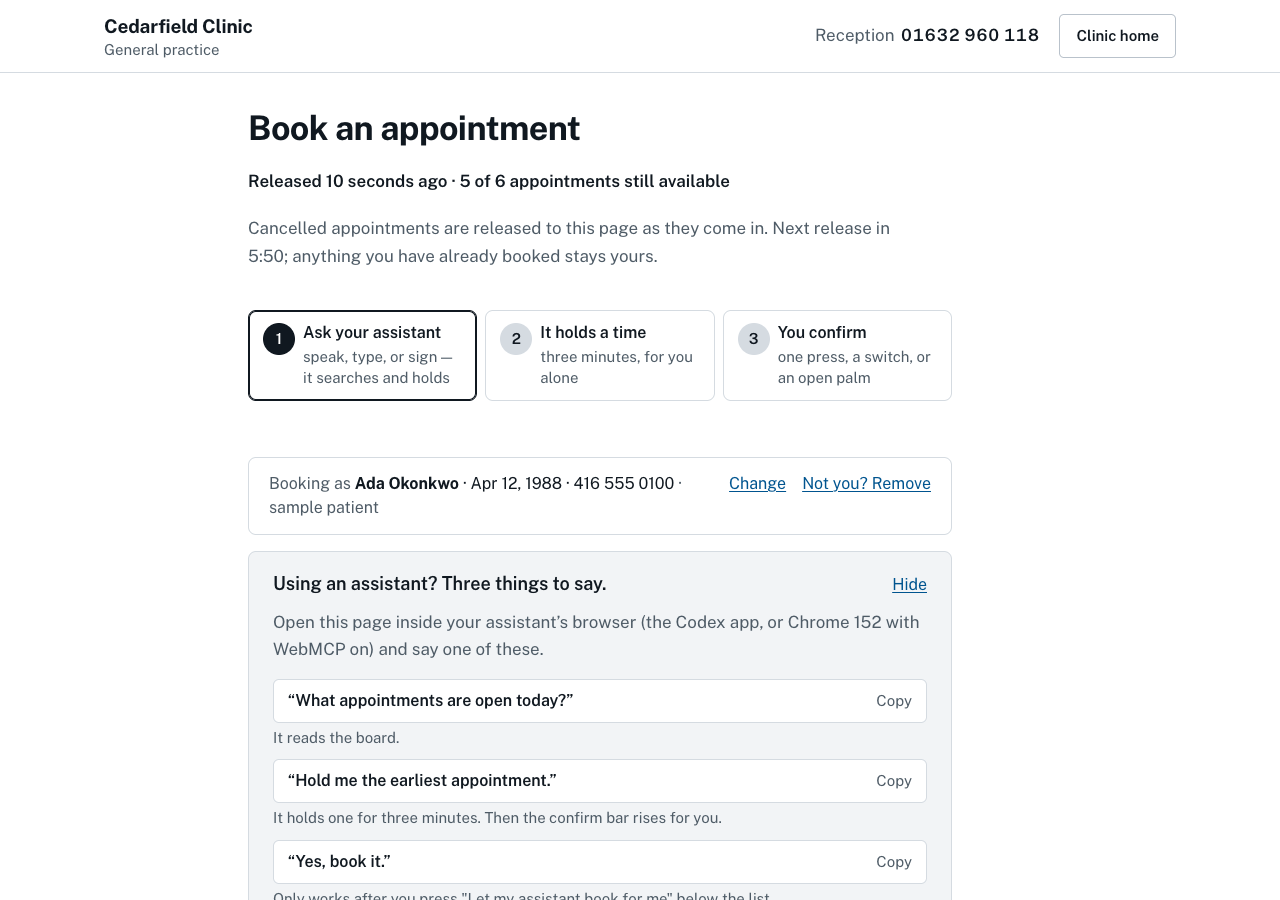
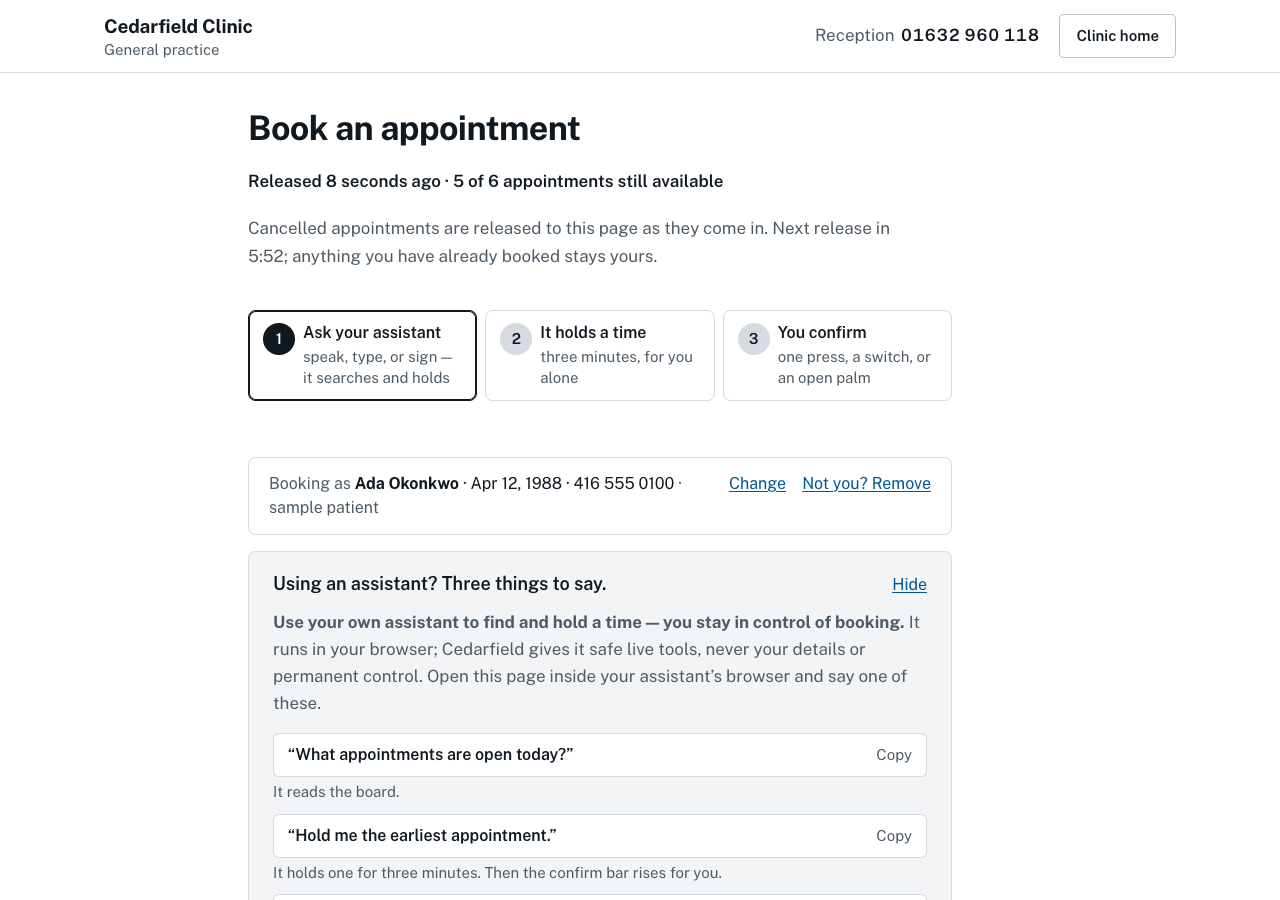
feat(clinic): the camera comes back; keyboard summons signs; tool names on the strip and cursor; take it back
Claude-Session: https://claude.ai/code/session_01RJtGvkhmwd2qdLot5U3zBz

diff --git a/apps/web/src/components/drop/GestureConfirm.tsx b/apps/web/src/components/drop/GestureConfirm.tsx
@@ -110,7 +110,7 @@ const INFER_EVERY_MS = 80;
 /** The sign channel's bar: held for eight consecutive readings at ≥ 0.85, then a 2 s gap. */
 export const SIGN_MIN_SCORE = 0.85;
 export const SIGN_STEADY_READINGS = 8;
-export const SIGN_REFRACTORY_MS = 2000;
+export const SIGN_REFRACTORY_MS = 1200;
 
 /** The page-wide "who has the camera" channel: an instance that starts announces itself. */
 const cameraBus: EventTarget = typeof window === 'undefined' ? new EventTarget() : ((window as unknown as { __cedarfieldCameraBus?: EventTarget }).__cedarfieldCameraBus ??= new EventTarget());
@@ -182,7 +182,11 @@ export function GestureConfirm({
   configRef.current = { dwellMs, graceMs: DEFAULT_GRACE_MS, minScore: DEFAULT_MIN_SCORE };
 
   // ---- teardown: one function, called on disable, on failure and on unmount ----
+  const yieldingRef = useRef(false);
   const teardown = useCallback(() => {
+    // Letting go of the camera (a dock closing, a Stop): tell the others, so one paused by this
+    // instance's claim can resume. Not when yielding to a claim — the claimant owns it now.
+    if (runningRef.current && !yieldingRef.current) cameraBus.dispatchEvent(new CustomEvent('release', { detail: instanceId.current }));
     if (rafRef.current !== null && typeof cancelAnimationFrame === 'function') cancelAnimationFrame(rafRef.current);
     rafRef.current = null;
     streamRef.current?.getTracks().forEach((track) => track.stop());
@@ -380,20 +384,46 @@ export function GestureConfirm({
   }, [teardown, forms.does, forms.keyboard]);
 
   // ---- one camera owner: yield to whichever instance the person started last ----
+  const pausedByClaim = useRef(false);
   useEffect(() => {
     const onClaim = (e: Event) => {
       const who = (e as CustomEvent<string>).detail;
       if (who === instanceId.current || !runningRef.current) return;
+      yieldingRef.current = true;
       teardown();
+      yieldingRef.current = false;
       setRunning(false);
       setEnabled(false);
       setPhase(null);
       setFailure(null);
-      setLive('Camera moved to the control you just enabled. Enable it here again if you need it.');
+      pausedByClaim.current = true;
+      setLive('Camera moved to the confirm bar for a moment — it comes back here by itself when that is done.');
+    };
+    // The other camera let go (its dock closed, or the person stopped it): if this one was paused
+    // by that claim, it resumes on its own — a hand user must never have to re-enable the switch
+    // board after every palm (Arav's run-through, 2026-09-03).
+    const onRelease = (e: Event) => {
+      const who = (e as CustomEvent<string>).detail;
+      if (who === instanceId.current || !pausedByClaim.current || runningRef.current) return;
+      pausedByClaim.current = false;
+      void start();
+    };
+    // Something on the page wants hand shapes (the scanning keyboard opened): the sign camera
+    // starts if a camera has been used this visit and it is not running.
+    const onWant = () => {
+      if (verb !== 'sign' || runningRef.current) return;
+      const used = (window as unknown as { __cedarfieldCameraUsed?: boolean }).__cedarfieldCameraUsed === true;
+      if (used) void start();
     };
     cameraBus.addEventListener('claim', onClaim);
-    return () => cameraBus.removeEventListener('claim', onClaim);
-  }, [teardown]);
+    cameraBus.addEventListener('release', onRelease);
+    cameraBus.addEventListener('want-signs', onWant);
+    return () => {
+      cameraBus.removeEventListener('claim', onClaim);
+      cameraBus.removeEventListener('release', onRelease);
+      cameraBus.removeEventListener('want-signs', onWant);
+    };
+  }, [teardown, start, verb]);
 
   // ---- mount: read the prefs; reopen the lens only where a grant already stands ----
   const startedOnce = useRef(false);

diff --git a/apps/web/src/components/clinic/ClinicBooking.tsx b/apps/web/src/components/clinic/ClinicBooking.tsx
@@ -571,11 +571,11 @@ export function ClinicBooking({ build }: ClinicBookingProps = {}) {
       const last = lastPointerRect.current;
       const from = last ? { x: last.left - r.left, y: last.top - r.top } : { x: -r.left - 48, y: -r.top - 48 };
       lastPointerRect.current = r;
-      setPointer({ label: `your assistant · ${record.summary}`, el, from, height: el.offsetHeight, at: Date.now() });
+      setPointer({ label: `your assistant · ${record.summary}`, tool: record.name, el, from, height: el.offsetHeight, at: Date.now() });
     }, 250);
   }, []);
   /** The assistant's pointer: where the last call landed, in document coordinates. */
-  const [pointer, setPointer] = useState<{ label: string; el: HTMLElement; from: { x: number; y: number }; height: number; at: number } | null>(null);
+  const [pointer, setPointer] = useState<{ label: string; tool: string; el: HTMLElement; from: { x: number; y: number }; height: number; at: number } | null>(null);
   /** Where the cursor last landed (viewport rect at that moment), so the next travel starts there. */
   const lastPointerRect = useRef<DOMRect | null>(null);
   const [pointerGone, setPointerGone] = useState(false);
@@ -787,7 +787,9 @@ export function ClinicBooking({ build }: ClinicBookingProps = {}) {
                   <path d="M4 2 L4 19 L8.6 14.8 L11.6 21.5 L14.4 20.3 L11.5 13.7 L18 13.5 Z" fill="#18181b" stroke="#fff" strokeWidth="1.5" strokeLinejoin="round" />
                 </svg>
                 <span className="cl-cursor__ring" />
-                <span className="cl-pointer">{pointer.label}</span>
+                <span className="cl-pointer">
+                  {pointer.label} <code className="cl-pointer__tool">{pointer.tool}</code>
+                </span>
               </span>
             </span>,
             pointer.el,
@@ -813,7 +815,10 @@ export function ClinicBooking({ build }: ClinicBookingProps = {}) {
         ) : lastCall !== null ? (
           <div className="cl-now" role="status" data-clinic-now={lastCall.name} data-clinic-now-ok={lastCall.ok ? 'true' : 'false'}>
             <span className="cl-now__who">Your assistant{lastCall.ok ? '' : ' was refused'}:</span>{' '}
-            <span className="cl-now__what">{lastCall.summary}</span>
+            <span className="cl-now__what">{lastCall.summary}</span>{' '}
+            <code className="cl-now__tool" data-clinic-now-tool>
+              {lastCall.name}
+            </code>
           </div>
         ) : null}
 

diff --git a/apps/web/src/lib/drop/request-queue.ts b/apps/web/src/lib/drop/request-queue.ts
@@ -62,6 +62,10 @@ export interface RequestQueue {
   ask(question: string, choices: readonly Choice[], timeoutMs: number, signal?: AbortSignal): Promise<AskResult>;
   /** The open question, if any — the panel renders it. */
   question(): Question | null;
+  /** Still waiting for an agent to take it? (by the request's `at`). */
+  isPending(at: number): boolean;
+  /** The person takes a request back before any agent has taken it. False if it was already taken. */
+  withdraw(at: number): boolean;
   /** The person picked a choice on the card itself (button, key, switch). False if nothing was open. */
   answer(index: number): boolean;
 }
@@ -180,6 +184,16 @@ export function createRequestQueue(): RequestQueue {
       });
     },
     question: () => open?.q ?? null,
+    isPending: (at) => pending.some((r) => r.at === at),
+    withdraw(at) {
+      const i = pending.findIndex((r) => r.at === at);
+      if (i < 0) return false;
+      pending.splice(i, 1);
+      const h = history.findIndex((r) => r.at === at);
+      if (h >= 0) history.splice(h, 1);
+      taken();
+      return true;
+    },
     answer(index) {
       if (open === null || index < 0 || index >= open.q.choices.length) return false;
       const choice = open.q.choices[index]!;

diff --git a/apps/web/src/components/clinic/ListenPanel.tsx b/apps/web/src/components/clinic/ListenPanel.tsx
@@ -433,8 +433,13 @@ export function ListenPanel({ queue, gesture, onActive, onMicChange, disabled = 
 
       <ol className="cl-listen__log" aria-label="What the page heard" data-clinic-listen-log={history.length}>
         {history.slice(0, 4).map((r) => (
-          <li key={`${r.at}-${r.text}`} data-clinic-heard={r.via}>
+          <li key={`${r.at}-${r.text}`} data-clinic-heard={r.via} data-clinic-heard-pending={queue.isPending(r.at) ? 'true' : 'false'}>
             <span className="cl-listen__via">{r.via === 'voice' ? 'Heard' : r.via === 'sign' ? 'Signed' : 'Typed'}</span> “{r.text}”
+            {queue.isPending(r.at) ? (
+              <button type="button" className="cl-link cl-listen__takeback" data-clinic-heard-takeback onClick={() => queue.withdraw(r.at)}>
+                Take it back
+              </button>
+            ) : null}
           </li>
         ))}
         {last === null ? <li className="cl-listen__empty">Nothing yet.</li> : null}

diff --git a/apps/web/src/lib/drop/request-queue.test.ts b/apps/web/src/lib/drop/request-queue.test.ts
@@ -118,3 +118,17 @@ test('ask: an answer given a few seconds BEFORE the question opened is taken as 
   assert.deepEqual(await p, { answer: null, stopped: false });
   assert.equal(q2.pending(), 1);
 });
+
+test('withdraw: a request not yet taken can be taken back; one already handed over cannot', async () => {
+  const q = createRequestQueue();
+  const a = q.push('hold me the earliest', 'typed')!;
+  assert.equal(q.isPending(a.at), true);
+  assert.equal(q.withdraw(a.at), true);
+  assert.equal(q.pending(), 0);
+  assert.equal(q.history().length, 0, 'gone from the log too');
+  const b = q.push('show me another', 'voice')!;
+  const taken = await q.wait(10);
+  assert.equal(taken?.at, b.at);
+  assert.equal(q.isPending(b.at), false);
+  assert.equal(q.withdraw(b.at), false);
+});

diff --git a/apps/web/src/components/clinic/ScanKeyboard.tsx b/apps/web/src/components/clinic/ScanKeyboard.tsx
@@ -64,9 +64,12 @@ export function ScanKeyboard({ fieldLabel, value, onChange, onDone, stepMs = 900
     return () => window.removeEventListener('keydown', onKey);
   }, [act]);
 
-  // The camera's shapes, while this keyboard is open.
+  // The camera's shapes, while this keyboard is open. Opening the keyboard asks the page for the
+  // sign camera (it starts by itself if a camera was used this visit).
   useEffect(() => {
     if (!registerSignSink) return;
+    const bus = (window as unknown as { __cedarfieldCameraBus?: EventTarget }).__cedarfieldCameraBus;
+    bus?.dispatchEvent(new CustomEvent('want-signs'));
     registerSignSink((category) => {
       const action = switchAction(category);
       if (action) act(action);

diff --git a/apps/web/src/components/clinic/clinic.css b/apps/web/src/components/clinic/clinic.css
@@ -2615,3 +2615,23 @@ html:has(.cl-dock) {
     transform: none;
   }
 }
+
+.cl-now__tool,
+.cl-pointer__tool {
+  font-family: var(--font-mono, ui-monospace, monospace);
+  font-size: 0.75rem;
+  padding: 0.1rem 0.4rem;
+  border-radius: 0.25rem;
+  background: rgba(255, 255, 255, 0.18);
+}
+
+.cl-now__tool {
+  background: rgba(24, 24, 27, 0.08);
+  color: var(--clinic-ink);
+  margin-left: 0.25rem;
+}
+
+.cl-listen__takeback {
+  margin-left: 0.5rem;
+  font-size: var(--clinic-small);
+}

diff --git a/docs/DROP-STATUS.md b/docs/DROP-STATUS.md
@@ -25,6 +25,7 @@ This file is the single source of truth for what is green, what is blocking, and
 | **The phrase board (2026-09-03 ~02:45 PT, Arav: "what about the AAC keyboard")** | What most AAC boards are: ready sentences, one press each. Seven defaults in the "Say it to the page" panel (hold me the earliest appointment · show me afternoon times · show me another time · say that more simply · yes · no · stop); a press hands the sentence to the agent through the same queue as speech, the typed line and the hand shapes, and answers an open `clinic_ask` too; "Change these phrases" (up to twelve, ≤ 120 chars, kept in this browser, defaults never written) and reset. `phrase-board.ts` pure + 3 tests; `clinic-phrases.json` (board → press → queued → wait tool → phrase answers a question → change → storage → reset). Nothing on the board can book. The scanning keyboard remains the letter-by-letter road. |
 | **The assistant's cursor (2026-09-03 ~03:00 PT, Arav: "he cannot see any cursor navigating the page and clicking")** | The pointer pill became a travelling cursor: an arrow rendered into the element the last call touched, starting from where it last landed (both rects measured at the same instant, so the delta is exact; from the top-left corner on the first call), arriving in 0.7 s, a click ring, then the label pill. Same truth as before — the agent never clicks; this is the page drawing the agent's hand — now with motion the eye follows. Reduced motion: no travel. Cases `clinic-spoken-word` (pill inside the held row) and `clinic-thesis` green. |
 | **Arav's second hand test (2026-09-03 ~03:10 PT): palm, keyboard, captions, motion** | (1) **The palm did not book**: the bar's camera was closed while the sign camera was open — the palm met a closed lens. Now a camera used once this visit (`window.__cedarfieldCameraUsed`, set on every claim) opens every later camera surface by itself (the bar's, the grant card's) unless the browser denied it. (2) **The scanning keyboard is a sheet** at the foot of the screen (`role=dialog`, slides up, the field stays in view) with real buttons under the patient card ("Type the patient's full name"). (3) **Captions on the voice call**: the session asks for input transcription (`gpt-4o-mini-transcribe`); the page shows "You …" and "Cedarfield …" (streamed) under the call — both halves readable. (4) **Motion everywhere**: the question card, the strip, the appointment card, the permission card (flashes when it turns to booking), the confirm word, the captions, each heard line rise in; buttons press; all off under reduced motion. Cases: scan, patient ×2, gesture ×2, voice ×3, spoken-word, listen ×2, manual-tax green. |
+| **First run-through by Aarya (2026-09-03 ~03:40 PT): the hand path end to end** | `4113442` verified (38/38 ×2 · live 25/25 · registry 14:14 · first-call · voice 14/14). Then: **the camera comes back** — when the confirm bar's camera claims the lens, the sign camera pauses and resumes by itself the moment the bar lets go (`release` on the camera bus; a yield never fires it), so a hand user never re-enables the switch board after a palm; **the scanning keyboard summons the sign camera** (`want-signs`) when a camera has been used this visit; sign gap 2.0 → 1.2 s; **WebMCP on the surface**: the strip and the cursor's pill carry the tool's name in mono (`clinic_hold_slot`) beside the plain-words summary; **Take it back** on a heard line while no agent has taken it (`queue.withdraw`, unit-tested). Cases gesture ×2, scan, listen ×2, spoken-word, thesis, activity-log green; unit 512. |
 | **The patient card is a declarative WebMCP form (2026-09-02 ~16:30, Arav: "how would signers fill in the details?")** | For a person who cannot type: the card carries `toolname="clinic_patient_details"` + `tooldescription` + a `toolparamdescription` per field, so the browser publishes it as a tool an assistant fills from what it knows; the browser's own autofill (`autocomplete` name/bday/tel) fills it from a saved contact; a caregiver fills it once. A fill not attributed to the person shows "Filled in by your assistant. Check it over, then press Save yourself"; a submit that is not the person's (`agentInvoked` or untrusted) is refused and counted; a trusted Save stores the record. `clinic-patient-declarative.json` (the browser lists the tool; banner; refused submit; trusted save). Honest framing kept: five labelled shapes, not ASL — the modality belongs to the assistant, the page gives every assistant the same tools. |
 | **Codex third audit, item-by-item on `ec52b81` (2026-09-02 ~15:45) — "no P1, no P2, no P3" beyond the items; three roots fixed** | 14 items: 7 PASS (first-call stability ×3, protocol copy, typed handoff, immediate count, speech fallback line, availability consistency ×2), 4 BLOCKED on that browser (no localStorage inspection, no speech implementation, no real hand — every visible half passed), 3 FAIL with one cause each: (2) fresh-load registries 12/7/11 → sets now register in **parallel** (a fetch mid-loop saw half a set) and the queue verbs are born on the page's **intent** to be live (a frame after mount) instead of the database handshake seconds later; (5)/(12)/(13) are one fact — Codex's automation presses are not trusted input; the confirm bar already said "That did not confirm…", the grant button only counted silently → it now says "That press did not come from you — the browser marked it as scripted" (asserted in `clinic-delegation`); the re-audit prompt marks those outcomes PASS-GUARD. |
 | **Edge cases, as cases (2026-09-02 ~14:15, Arav: "edge cases tested please")** | `clinic-delegation-edges.json`: a grant shortened to 3 s through a test-only hook (`window.__cedarfieldDelegationMs`, honoured under `?test=1` only) expires on its own and the booking tool dies with it; "Take that back" ends it at once; a wrong slot id and a rival-taken slot are refused with the grant intact; a real booking spends it and a replay finds no tool; with no patient the press itself is refused; nothing about a grant is ever in storage. `clinic-listen-edges.json`: whitespace-only ignored; a 600-character request stored at 400; two requests handed over first-in first-out with `more_pending` counting down; out-of-range timeouts (999, −5) clamped and still answered; the tool never leaves the registry. Found and fixed by the edge run: the panel's "N waiting" lagged a hand-over by up to a second (it only refreshed on push or a tick) → the queue now notifies on every take too (unit-tested). Both cases in `verify-deployed` (24 cases). |
